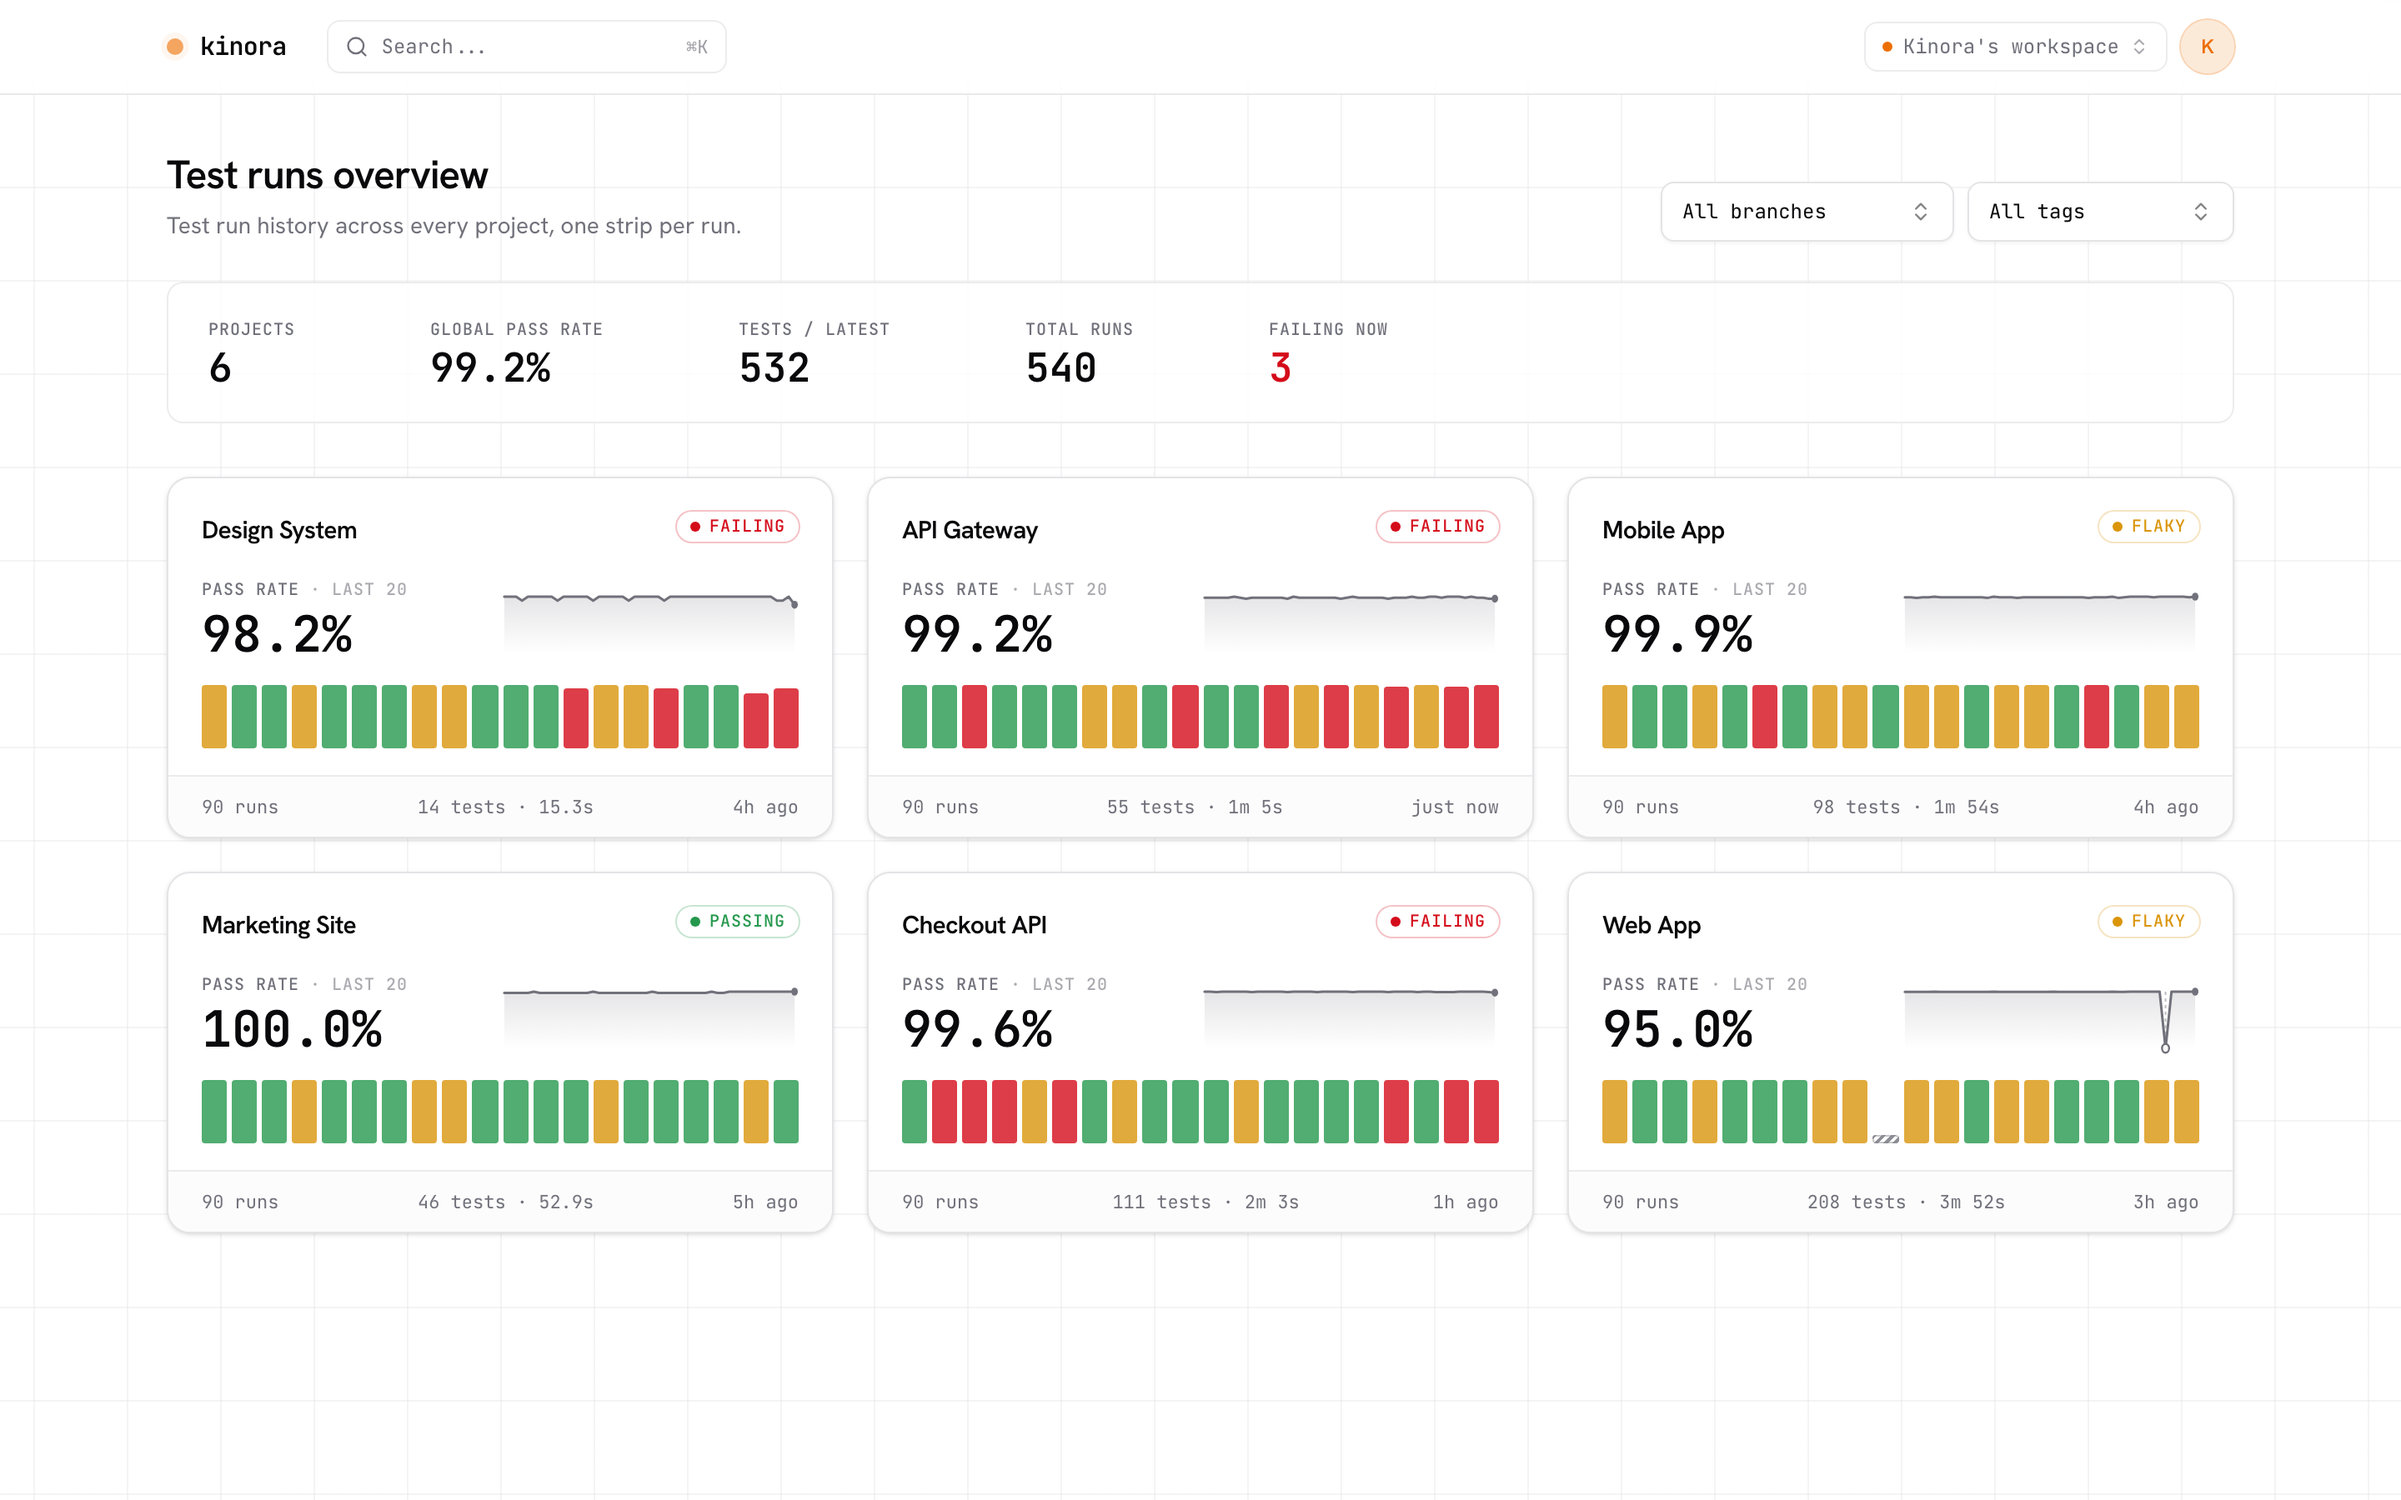
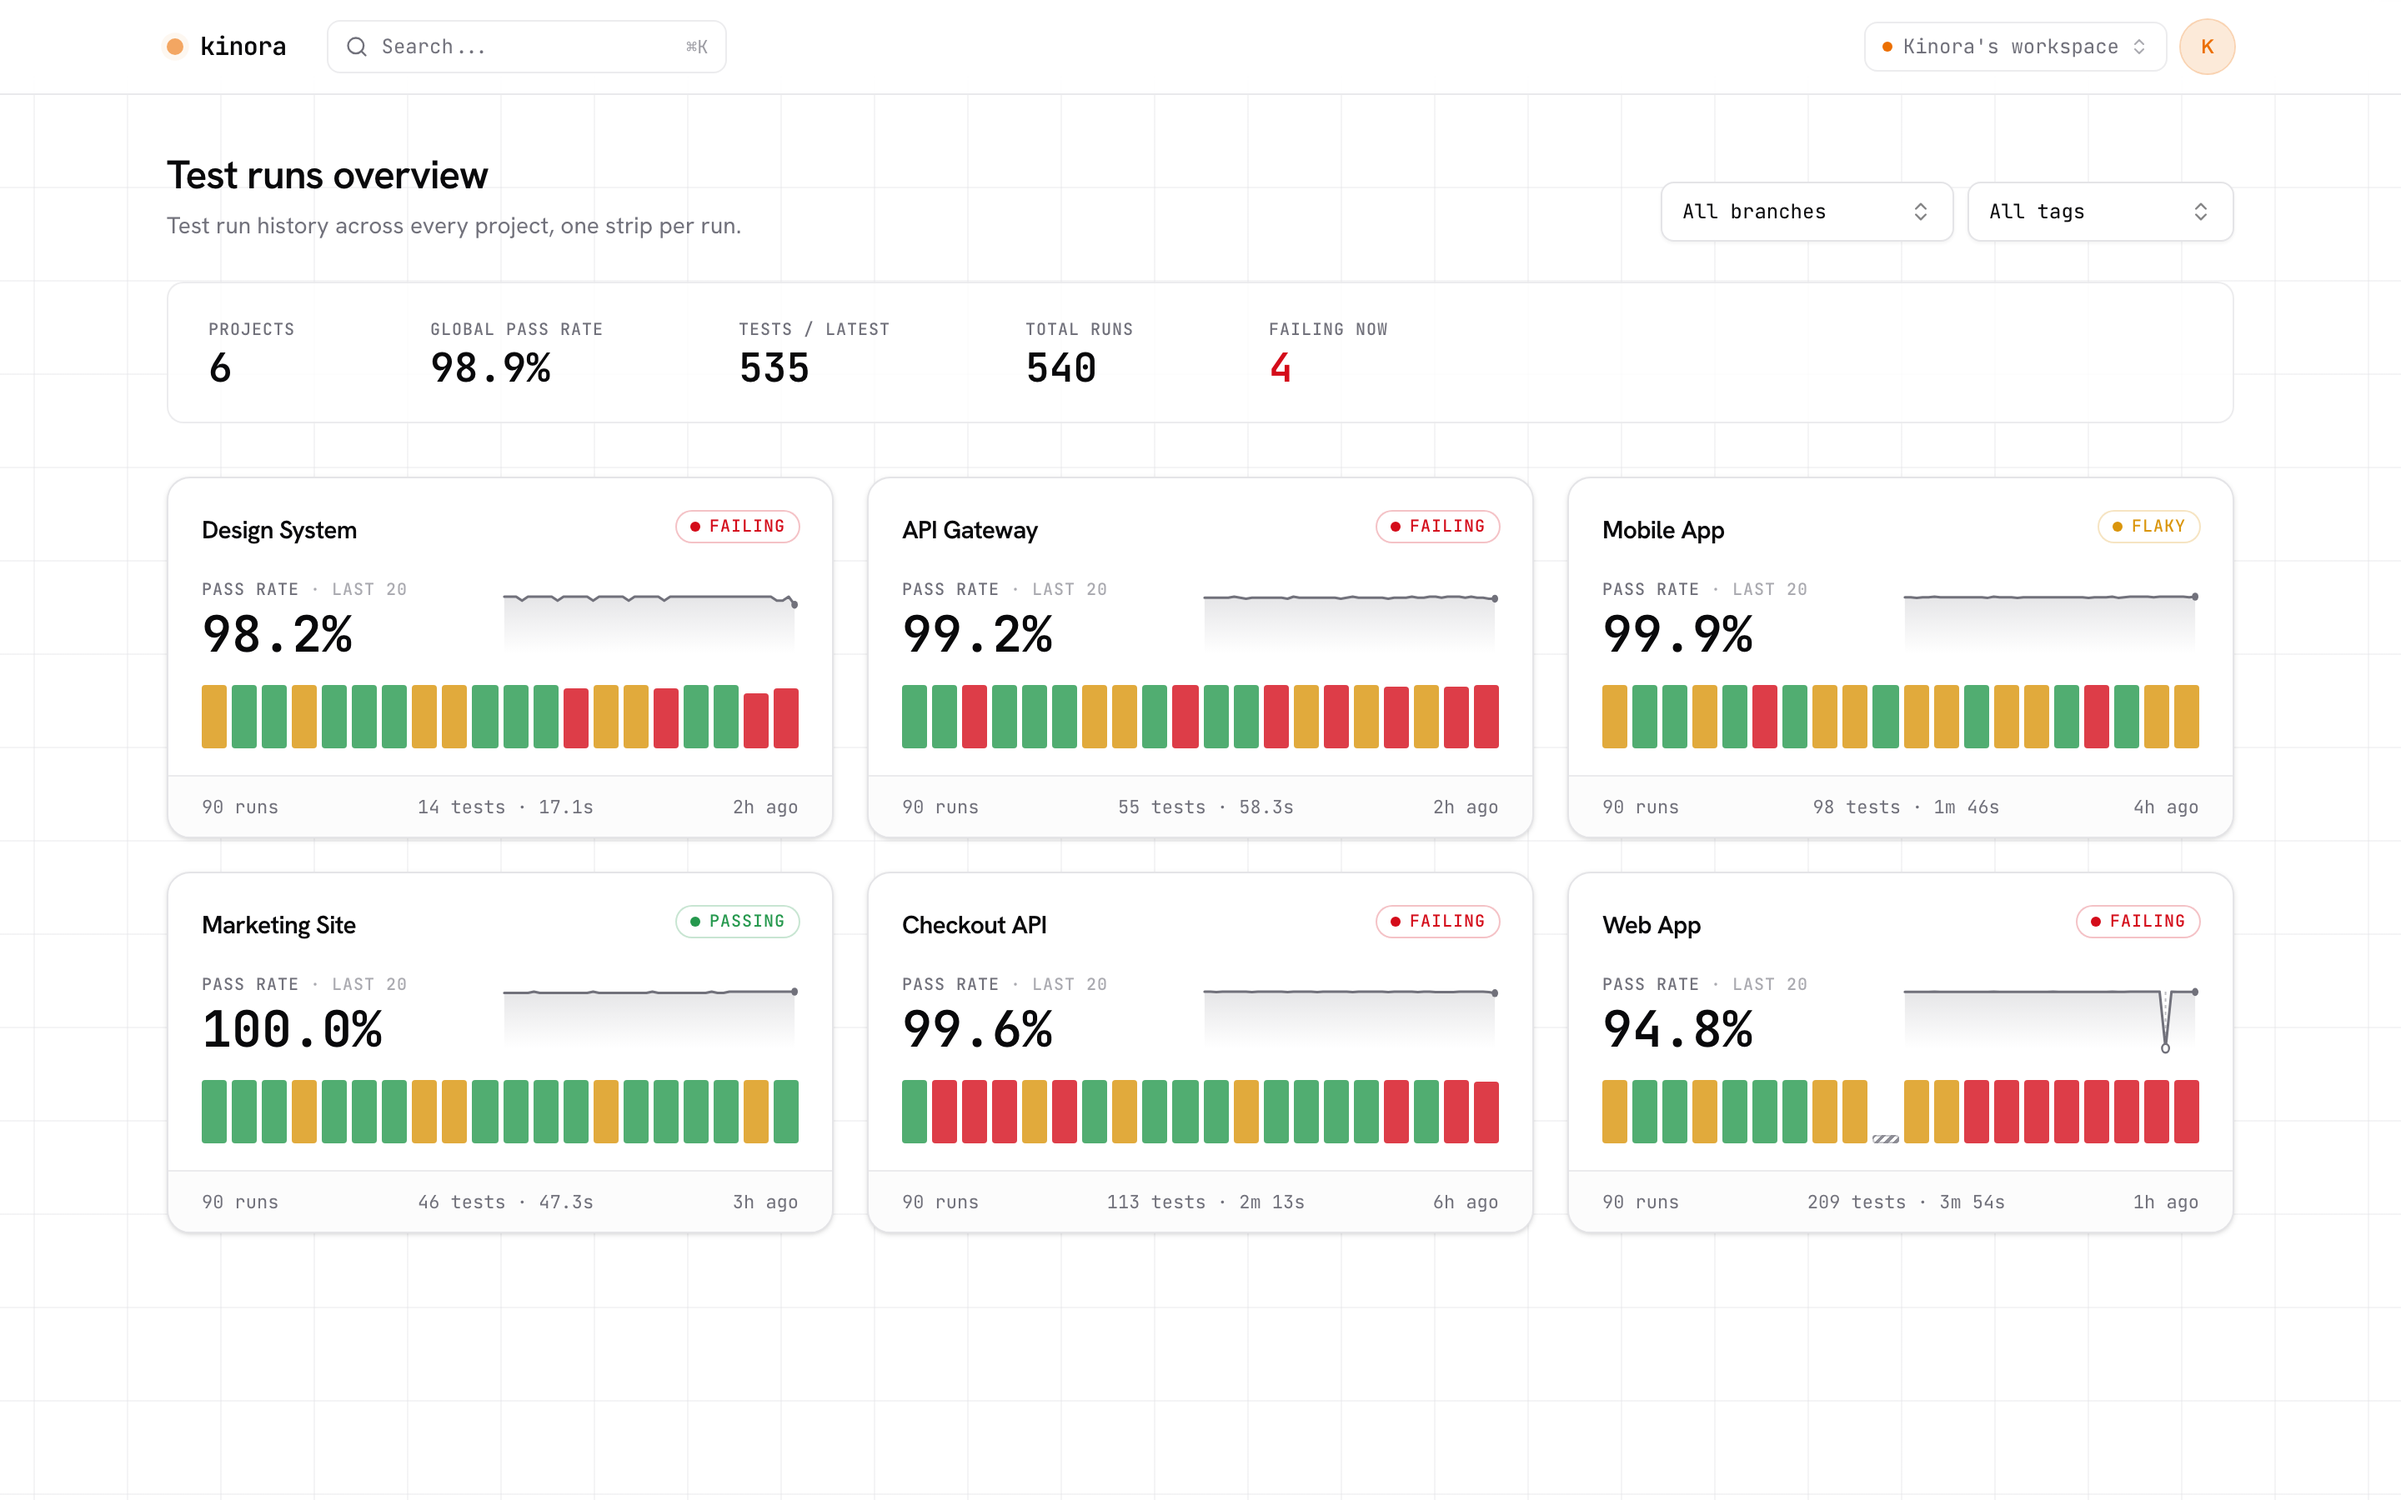
feat(website): crop landing card screenshots to what each card shows and enrich the run comparison seed

Changed region(s): [[0.8125, 0.7156, 0.9375, 0.7778], [0.875, 0.5911, 0.9062, 0.6222], [0.4688, 0.7778, 0.5, 0.8089]]

diff --git a/website/src/data/pillars.ts b/website/src/data/pillars.ts
@@ -1,18 +1,18 @@
 import type { ImageMetadata } from 'astro'
-import a11yDark from '../assets/screenshots/a11y-dark.png'
-import a11yLight from '../assets/screenshots/a11y-light.png'
-import analyticsDark from '../assets/screenshots/analytics-dark.png'
-import analyticsLight from '../assets/screenshots/analytics-light.png'
-import compareDark from '../assets/screenshots/compare-dark.png'
-import compareLight from '../assets/screenshots/compare-light.png'
+import a11yDark from '../assets/screenshots/a11y-card-dark.png'
+import a11yLight from '../assets/screenshots/a11y-card-light.png'
+import analyticsDark from '../assets/screenshots/analytics-card-dark.png'
+import analyticsLight from '../assets/screenshots/analytics-card-light.png'
+import compareDark from '../assets/screenshots/compare-card-dark.png'
+import compareLight from '../assets/screenshots/compare-card-light.png'
 import componentsDark from '../assets/screenshots/components-dark.png'
 import componentsLight from '../assets/screenshots/components-light.png'
-import projectDark from '../assets/screenshots/project-dark.png'
-import projectLight from '../assets/screenshots/project-light.png'
-import screenshotDiffDark from '../assets/screenshots/screenshot-diff-dark.png'
-import screenshotDiffLight from '../assets/screenshots/screenshot-diff-light.png'
-import testHistoryDark from '../assets/screenshots/test-history-dark.png'
-import testHistoryLight from '../assets/screenshots/test-history-light.png'
+import projectDark from '../assets/screenshots/project-card-dark.png'
+import projectLight from '../assets/screenshots/project-card-light.png'
+import screenshotDiffDark from '../assets/screenshots/screenshot-diff-card-dark.png'
+import screenshotDiffLight from '../assets/screenshots/screenshot-diff-card-light.png'
+import testHistoryDark from '../assets/screenshots/test-history-card-dark.png'
+import testHistoryLight from '../assets/screenshots/test-history-card-light.png'
 import testsDark from '../assets/screenshots/tests-dark.png'
 import testsLight from '../assets/screenshots/tests-light.png'
 import { DOCS } from '../lib/site'
@@ -56,7 +56,7 @@ export const UNDERSTAND: Pillar = {
       body: 'Push from CI and kinora keeps the history. Pass rate, run count, and duration per project, with a sparkline trend and one colored strip per run, so a slow drift is obvious long before it breaks the build.',
       light: projectLight,
       dark: projectDark,
-      alt: 'Per-project page with pass rate, trend sparkline and per-run history strips',
+      alt: 'Project cards with their pass rate, a trend sparkline and one colored strip per run',
     },
     {
       eyebrow: 'Analytics',
@@ -72,7 +72,7 @@ export const UNDERSTAND: Pillar = {
       body: 'Each test keeps a stable identity regardless of how it was uploaded, so you can track one test run-to-run: when it started flaking, when it was fixed, and how long it has been green.',
       light: testHistoryLight,
       dark: testHistoryDark,
-      alt: 'Per-test history with a status timeline, pass and flaky rates, and a list of failures and flakes',
+      alt: 'Per-test history with pass, flaky and fail rates, a Broken badge and a status timeline',
     },
     {
       eyebrow: 'Run-to-run diff',
@@ -80,7 +80,7 @@ export const UNDERSTAND: Pillar = {
       body: 'Pick any two runs and kinora groups every difference for you: newly failing, fixed, newly flaky, and still failing. No more diffing two HTML reports by eye to find the one test that regressed since green.',
       light: compareLight,
       dark: compareDark,
-      alt: 'Run comparison page grouping tests into newly failing, fixed, newly flaky and still failing, with pass-rate delta',
+      alt: 'Run comparison grouping tests into broken, fixed, newly flaky and still failing, with the pass rate dropping from 98.2% to 97.3%',
     },
   ],
 }
@@ -106,7 +106,7 @@ export const COVER: Pillar = {
       body: 'kinora reads the axe scans of your Playwright tests and of your Storybook stories: the rules broken, their impact, the elements they hit. Hotspots rank your test files and components by their violations, critical ones first, so you know where fixing pays off.',
       light: a11yLight,
       dark: a11yDark,
-      alt: 'Tests page with accessibility hotspots ranking test files by axe violations and their impact, and the tests breaking a rule',
+      alt: 'A test with its axe violations: a critical missing alternative text and a moderate landmark rule, with the elements they hit',
       docs: { label: 'Accessibility', href: DOCS.a11y, event: 'docs-a11y' },
     },
     {

diff --git a/packages/server/scripts/seed-market.ts b/packages/server/scripts/seed-market.ts
@@ -44,7 +44,7 @@ type Status = NormTest['status']
 type Profile
   = | 'solid' | 'mostlyGreen' | 'flakyHistory' | 'chronicFlaky' | 'flakyCluster'
     | 'degrading' | 'outage' | 'recovering' | 'intermittent' | 'chronicFail'
-    | 'newlyFlaky' | 'newlyBroken' | 'newlyFailing' | 'fixed' | 'fixmeSkip' | 'recurringFail'
+    | 'newlyFlaky' | 'newlyBroken' | 'newlyFailing' | 'fixed' | 'fixmeSkip' | 'recurringFail' | 'longBroken'
 
 // Status sequence per profile across the story run ordinals (0 = oldest story run, LATEST = newest).
 // Events are spread across the timeline (not just the tail) so per-run pass rates
@@ -75,6 +75,8 @@ function statusAt(profile: Profile, i: number): Status {
       return i % 7 === 5 ? 'unexpected' : i % 7 === 2 ? 'flaky' : 'expected'
     case 'newlyFlaky':
       return i === LATEST ? 'flaky' : 'expected'
+    case 'longBroken': // failing since a commit 8 runs back: Broken, past the "New failure" window
+      return i >= LATEST - 7 ? 'unexpected' : 'expected'
     case 'newlyBroken':
       return i >= LATEST - 1 ? 'unexpected' : 'expected'
     // Compare(run-89 -> run-90) story: pass->fail (newly failing) and fail->pass (fixed).
@@ -221,6 +223,7 @@ const PROJECTS: ProjectDef[] = [
       ] },
       { file: 'tests/search.spec.ts', title: 'handles an empty query', profile: 'solid', a11y: [] },
       { file: 'tests/dashboard.spec.ts', title: 'renders widgets', profile: 'flakyHistory' },
+      { file: 'tests/dashboard.spec.ts', title: 'exports the weekly report', profile: 'longBroken' },
       ...suite('ui', {
         account: ['address', 'payment method', 'notification setting', 'api key'],
         admin: ['user', 'role', 'invite', 'audit log'],
@@ -242,6 +245,9 @@ const PROJECTS: ProjectDef[] = [
       { file: 'tests/webhooks.spec.ts', title: 'delivers order.paid', profile: 'intermittent' },
       { file: 'tests/auth.spec.ts', title: 'rejects an expired token', profile: 'fixed', tags: ['@smoke'] },
       { file: 'tests/rate-limit.spec.ts', title: 'throttles past the quota', profile: 'newlyFailing' },
+      // Run 89 -> 90 compares with every group filled and a pass rate that moves.
+      { file: 'tests/payments.spec.ts', title: 'captures a partial refund', profile: 'newlyFailing', tags: ['@critical'] },
+      { file: 'tests/webhooks.spec.ts', title: 'retries a failed delivery', profile: 'newlyFlaky' },
       ...suite('api', {
         cart: ['cart', 'cart item', 'coupon'],
         orders: ['order', 'refund', 'invoice', 'tax rate'],
